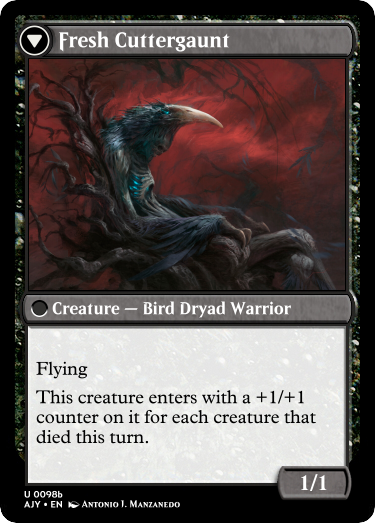
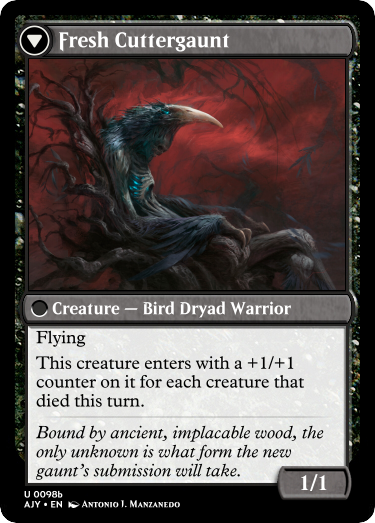
Automated update

Changed region(s): [[0.088, 0.6119, 0.8507, 0.9178]]

diff --git a/previews/AJY.html b/previews/AJY.html
@@ -262,12 +262,12 @@
 				<div class="container"><img loading="lazy" alt="sets\AJY-files\img\149.png" id="AJY_149" data-flag="@X" onclick="openSidebar('AJY_149',true)"></div>
 				<div class="container"><img loading="lazy" alt="sets\AJY-files\img\294.png" id="AJY_294" data-flag="@X" onclick="openSidebar('AJY_294',false)"></div>
 				<div class="container"><img loading="lazy" alt="sets\AJY-files\img\300.png" id="AJY_300" data-flag="@X" onclick="openSidebar('AJY_300',false)"></div>
-				<div class="container"><img loading="lazy" data-alt_src="sets\AJY-files\img\211_back.png" alt="sets\AJY-files\img\211_front.png" id="AJY_211" data-flag="@XD" onclick="openSidebar('AJY_211',true)"><button class="flip-btn" onclick="imgFlip('AJY_211')"></button></div>
+				<div class="container"><img loading="lazy" alt="sets\AJY-files\img\211.png" id="AJY_211" data-flag="@X" onclick="openSidebar('AJY_211',true)"></div>
 				<div class="container"><img loading="lazy" alt="sets\AJY-files\img\213.png" id="AJY_213" data-flag="@X" onclick="openSidebar('AJY_213',false)"></div>
 				<div class="container"><img loading="lazy" alt="sets\AJY-files\img\293.png" id="AJY_293" data-flag="@X" onclick="openSidebar('AJY_293',false)"></div>
 				<div class="container"><img loading="lazy" alt="sets\AJY-files\img\231.png" id="AJY_231" data-flag="@X" onclick="openSidebar('AJY_231',false)"></div>
 				<div class="container"><img loading="lazy" alt="sets\AJY-files\img\139.png" id="AJY_139" data-flag="@X" onclick="openSidebar('AJY_139',false)"></div>
-				<div class="container"><img loading="lazy" data-alt_src="sets\AJY-files\img\210_back.png" alt="sets\AJY-files\img\210_front.png" id="AJY_210" data-flag="@XD" onclick="openSidebar('AJY_210',false)"><button class="flip-btn" onclick="imgFlip('AJY_210')"></button></div>
+				<div class="container"><img loading="lazy" alt="sets\AJY-files\img\210.png" id="AJY_210" data-flag="@X" onclick="openSidebar('AJY_210',false)"></div>
 				<div class="container"><img loading="lazy" alt="sets\AJY-files\img\216.png" id="AJY_216" data-flag="@X" onclick="openSidebar('AJY_216',false)"></div>
 				<div class="container"><img loading="lazy" alt="sets\AJY-files\img\265.png" id="AJY_265" data-flag="@X" onclick="openSidebar('AJY_265',false)"></div>
 				<div class="container"><img loading="lazy" alt="sets\AJY-files\img\227.png" id="AJY_227" data-flag="@X" onclick="openSidebar('AJY_227',false)"></div>
@@ -289,7 +289,7 @@
 				<div class="container"><img loading="lazy" alt="sets\AJY-files\img\98.png" id="AJY_98" data-flag="@X" onclick="openSidebar('AJY_98',false)"></div>
 				<div class="container"><img loading="lazy" data-alt_src="sets\AJY-files\img\122_back.png" alt="sets\AJY-files\img\122_front.png" id="AJY_122" data-flag="@XD" onclick="openSidebar('AJY_122',false)"><button class="flip-btn" onclick="imgFlip('AJY_122')"></button></div>
 				<div class="container"><img loading="lazy" alt="sets\AJY-files\img\215.png" id="AJY_215" data-flag="@X" onclick="openSidebar('AJY_215',false)"></div>
-				<div class="container"><img loading="lazy" data-alt_src="sets\AJY-files\img\144_back.png" alt="sets\AJY-files\img\144_front.png" id="AJY_144" data-flag="@XD" onclick="openSidebar('AJY_144',false)"><button class="flip-btn" onclick="imgFlip('AJY_144')"></button></div>
+				<div class="container"><img loading="lazy" alt="sets\AJY-files\img\144.png" id="AJY_144" data-flag="@X" onclick="openSidebar('AJY_144',false)"></div>
 				<div class="container"><img loading="lazy" alt="sets\AJY-files\img\164.png" id="AJY_164" data-flag="@X" onclick="openSidebar('AJY_164',false)"></div>
 				<div class="container"><img loading="lazy" alt="sets\AJY-files\img\89.png" id="AJY_89" data-flag="@X" onclick="openSidebar('AJY_89',false)"></div>
 				<div class="container"><img loading="lazy" alt="sets\AJY-files\img\157.png" id="AJY_157" data-flag="@X" onclick="openSidebar('AJY_157',false)"></div>
@@ -303,14 +303,14 @@
 				<div class="container"><img loading="lazy" alt="sets\AJY-files\img\156.png" id="AJY_156" data-flag="@X" onclick="openSidebar('AJY_156',false)"></div>
 				<div class="container"><img loading="lazy" alt="sets\AJY-files\img\96.png" id="AJY_96" data-flag="@X" onclick="openSidebar('AJY_96',false)"></div>
 				<div class="container"><img loading="lazy" alt="sets\AJY-files\img\111.png" id="AJY_111" data-flag="@X" onclick="openSidebar('AJY_111',false)"></div>
-				<div class="container"><img loading="lazy" data-alt_src="sets\AJY-files\img\126_back.png" alt="sets\AJY-files\img\126_front.png" id="AJY_126" data-flag="@XD" onclick="openSidebar('AJY_126',false)"><button class="flip-btn" onclick="imgFlip('AJY_126')"></button></div>
+				<div class="container"><img loading="lazy" alt="sets\AJY-files\img\126.png" id="AJY_126" data-flag="@X" onclick="openSidebar('AJY_126',false)"></div>
 				<div class="container"><img loading="lazy" alt="sets\AJY-files\img\312.png" id="AJY_312" data-flag="@X" onclick="openSidebar('AJY_312',false)"></div>
 				<div class="container"><img loading="lazy" alt="sets\AJY-files\img\169.png" id="AJY_169" data-flag="@X" onclick="openSidebar('AJY_169',false)"></div>
 				<div class="container"><img loading="lazy" alt="sets\AJY-files\img\103.png" id="AJY_103" data-flag="@X" onclick="openSidebar('AJY_103',false)"></div>
 				<div class="container"><img loading="lazy" alt="sets\AJY-files\img\114.png" id="AJY_114" data-flag="@X" onclick="openSidebar('AJY_114',false)"></div>
 				<div class="container"><img loading="lazy" alt="sets\AJY-files\img\91.png" id="AJY_91" data-flag="@X" onclick="openSidebar('AJY_91',false)"></div>
-				<div class="container"><img loading="lazy" data-alt_src="sets\AJY-files\img\225_back.png" alt="sets\AJY-files\img\225_front.png" id="AJY_225" data-flag="@XD" onclick="openSidebar('AJY_225',false)"><button class="flip-btn" onclick="imgFlip('AJY_225')"></button></div>
-				<div class="container"><img loading="lazy" data-alt_src="sets\AJY-files\img\128_back.png" alt="sets\AJY-files\img\128_front.png" id="AJY_128" data-flag="@XD" onclick="openSidebar('AJY_128',false)"><button class="flip-btn" onclick="imgFlip('AJY_128')"></button></div>
+				<div class="container"><img loading="lazy" alt="sets\AJY-files\img\225.png" id="AJY_225" data-flag="@X" onclick="openSidebar('AJY_225',false)"></div>
+				<div class="container"><img loading="lazy" alt="sets\AJY-files\img\128.png" id="AJY_128" data-flag="@X" onclick="openSidebar('AJY_128',false)"></div>
 				<div class="container"><img loading="lazy" alt="sets\AJY-files\img\99.png" id="AJY_99" data-flag="@X" onclick="openSidebar('AJY_99',false)"></div>
 				<div class="container"><img loading="lazy" alt="sets\AJY-files\img\117.png" id="AJY_117" data-flag="@X" onclick="openSidebar('AJY_117',false)"></div>
 				<div class="container"><img loading="lazy" data-alt_src="sets\AJY-files\img\217_back.png" alt="sets\AJY-files\img\217_front.png" id="AJY_217" data-flag="@XD" onclick="openSidebar('AJY_217',false)"><button class="flip-btn" onclick="imgFlip('AJY_217')"></button></div>
@@ -325,7 +325,7 @@
 				<div class="container"><img loading="lazy" alt="sets\AJY-files\img\106.png" id="AJY_106" data-flag="@X" onclick="openSidebar('AJY_106',false)"></div>
 				<div class="container"><img loading="lazy" alt="sets\AJY-files\img\134.png" id="AJY_134" data-flag="@X" onclick="openSidebar('AJY_134',false)"></div>
 				<div class="container"><img loading="lazy" data-alt_src="sets\AJY-files\img\154_back.png" alt="sets\AJY-files\img\154_front.png" id="AJY_154" data-flag="@XD" onclick="openSidebar('AJY_154',false)"><button class="flip-btn" onclick="imgFlip('AJY_154')"></button></div>
-				<div class="container"><img loading="lazy" data-alt_src="sets\AJY-files\img\160_back.png" alt="sets\AJY-files\img\160_front.png" id="AJY_160" data-flag="@XD" onclick="openSidebar('AJY_160',false)"><button class="flip-btn" onclick="imgFlip('AJY_160')"></button></div>
+				<div class="container"><img loading="lazy" alt="sets\AJY-files\img\160.png" id="AJY_160" data-flag="@X" onclick="openSidebar('AJY_160',false)"></div>
 				<div class="container"><img loading="lazy" alt="sets\AJY-files\img\105.png" id="AJY_105" data-flag="@X" onclick="openSidebar('AJY_105',false)"></div>
 				<div class="container"><img loading="lazy" alt="sets\AJY-files\img\23.png" id="AJY_23" data-flag="@X" onclick="openSidebar('AJY_23',false)"></div>
 				<div class="container"><img loading="lazy" alt="sets\AJY-files\img\125.png" id="AJY_125" data-flag="@X" onclick="openSidebar('AJY_125',false)"></div>
@@ -389,7 +389,7 @@
 				<div class="container"><img loading="lazy" alt="sets\AJY-files\img\8.png" id="AJY_8" data-flag="@X" onclick="openSidebar('AJY_8',false)"></div>
 				<div class="container"><img loading="lazy" alt="sets\AJY-files\img\17.png" id="AJY_17" data-flag="@X" onclick="openSidebar('AJY_17',false)"></div>
 				<div class="container"><img loading="lazy" alt="sets\AJY-files\img\34.png" id="AJY_34" data-flag="@X" onclick="openSidebar('AJY_34',false)"></div>
-				<div class="container"><img loading="lazy" data-alt_src="sets\AJY-files\img\39_back.png" alt="sets\AJY-files\img\39_front.png" id="AJY_39" data-flag="@XD" onclick="openSidebar('AJY_39',false)"><button class="flip-btn" onclick="imgFlip('AJY_39')"></button></div>
+				<div class="container"><img loading="lazy" alt="sets\AJY-files\img\39.png" id="AJY_39" data-flag="@X" onclick="openSidebar('AJY_39',false)"></div>
 				<div class="container"><img loading="lazy" alt="sets\AJY-files\img\61.png" id="AJY_61" data-flag="@X" onclick="openSidebar('AJY_61',false)"></div>
 				<div class="container"><img loading="lazy" data-alt_src="sets\AJY-files\img\9_back.png" alt="sets\AJY-files\img\9_front.png" id="AJY_9" data-flag="@XD" onclick="openSidebar('AJY_9',false)"><button class="flip-btn" onclick="imgFlip('AJY_9')"></button></div>
 				<div class="container"><img loading="lazy" alt="sets\AJY-files\img\13.png" id="AJY_13" data-flag="@X" onclick="openSidebar('AJY_13',false)"></div>
@@ -409,7 +409,7 @@
 				<div class="container"><img loading="lazy" alt="sets\AJY-files\img\4.png" id="AJY_4" data-flag="@X" onclick="openSidebar('AJY_4',false)"></div>
 				<div class="container"><img loading="lazy" alt="sets\AJY-files\img\14.png" id="AJY_14" data-flag="@X" onclick="openSidebar('AJY_14',false)"></div>
 				<div class="container"><img loading="lazy" data-alt_src="sets\AJY-files\img\38_back.png" alt="sets\AJY-files\img\38_front.png" id="AJY_38" data-flag="@XD" onclick="openSidebar('AJY_38',false)"><button class="flip-btn" onclick="imgFlip('AJY_38')"></button></div>
-				<div class="container"><img loading="lazy" data-alt_src="sets\AJY-files\img\50_back.png" alt="sets\AJY-files\img\50_front.png" id="AJY_50" data-flag="@XD" onclick="openSidebar('AJY_50',false)"><button class="flip-btn" onclick="imgFlip('AJY_50')"></button></div>
+				<div class="container"><img loading="lazy" alt="sets\AJY-files\img\50.png" id="AJY_50" data-flag="@X" onclick="openSidebar('AJY_50',false)"></div>
 				<div class="container"><img loading="lazy" alt="sets\AJY-files\img\59.png" id="AJY_59" data-flag="@X" onclick="openSidebar('AJY_59',false)"></div>
 				<div class="container"><img loading="lazy" alt="sets\AJY-files\img\0.png" id="AJY_0" data-flag="@X" onclick="openSidebar('AJY_0',false)"></div>
 				<div class="container"><img loading="lazy" alt="sets\AJY-files\img\25.png" id="AJY_25" data-flag="@X" onclick="openSidebar('AJY_25',false)"></div>
@@ -417,7 +417,7 @@
 				<div class="container"><img loading="lazy" alt="sets\AJY-files\img\47.png" id="AJY_47" data-flag="@X" onclick="openSidebar('AJY_47',false)"></div>
 				<div class="container"><img loading="lazy" data-alt_src="sets\AJY-files\img\315_back.png" alt="sets\AJY-files\img\315_front.png" id="AJY_315" data-flag="@XD" onclick="openSidebar('AJY_315',false)"><button class="flip-btn" onclick="imgFlip('AJY_315')"></button></div>
 				<div class="container"><img loading="lazy" alt="sets\AJY-files\img\3.png" id="AJY_3" data-flag="@X" onclick="openSidebar('AJY_3',false)"></div>
-				<div class="container"><img loading="lazy" data-alt_src="sets\AJY-files\img\22_back.png" alt="sets\AJY-files\img\22_front.png" id="AJY_22" data-flag="@XD" onclick="openSidebar('AJY_22',false)"><button class="flip-btn" onclick="imgFlip('AJY_22')"></button></div>
+				<div class="container"><img loading="lazy" alt="sets\AJY-files\img\22.png" id="AJY_22" data-flag="@X" onclick="openSidebar('AJY_22',false)"></div>
 				<div class="container"><img loading="lazy" alt="sets\AJY-files\img\36.png" id="AJY_36" data-flag="@X" onclick="openSidebar('AJY_36',false)"></div>
 				<div class="container"><img loading="lazy" alt="sets\AJY-files\img\42.png" id="AJY_42" data-flag="@X" onclick="openSidebar('AJY_42',false)"></div>
 				<div class="container"><img loading="lazy" alt="sets\AJY-files\img\58.png" id="AJY_58" data-flag="@X" onclick="openSidebar('AJY_58',false)"></div>
@@ -431,7 +431,7 @@
 				<div class="container"><img loading="lazy" alt="sets\AJY-files\img\28.png" id="AJY_28" data-flag="@X" onclick="openSidebar('AJY_28',false)"></div>
 				<div class="container"><img loading="lazy" alt="sets\AJY-files\img\46.png" id="AJY_46" data-flag="@X" onclick="openSidebar('AJY_46',false)"></div>
 				<div class="container"><img loading="lazy" alt="sets\AJY-files\img\277.png" id="AJY_277" data-flag="@X" onclick="openSidebar('AJY_277',false)"></div>
-				<div class="container"><img loading="lazy" data-alt_src="sets\AJY-files\img\10_back.png" alt="sets\AJY-files\img\10_front.png" id="AJY_10" data-flag="@XD" onclick="openSidebar('AJY_10',false)"><button class="flip-btn" onclick="imgFlip('AJY_10')"></button></div>
+				<div class="container"><img loading="lazy" alt="sets\AJY-files\img\10.png" id="AJY_10" data-flag="@X" onclick="openSidebar('AJY_10',false)"></div>
 				<div class="container"><img loading="lazy" alt="sets\AJY-files\img\18.png" id="AJY_18" data-flag="@X" onclick="openSidebar('AJY_18',false)"></div>
 				<div class="container"><img loading="lazy" alt="sets\AJY-files\img\26.png" id="AJY_26" data-flag="@X" onclick="openSidebar('AJY_26',false)"></div>
 				<div class="container"><img loading="lazy" data-alt_src="sets\AJY-files\img\49_back.png" alt="sets\AJY-files\img\49_front.png" id="AJY_49" data-flag="@XD" onclick="openSidebar('AJY_49',false)"><button class="flip-btn" onclick="imgFlip('AJY_49')"></button></div>
@@ -452,13 +452,13 @@
 				<div class="container"><img loading="lazy" alt="sets\AJY-files\img\243.png" id="AJY_243" data-flag="@X" onclick="openSidebar('AJY_243',false)"></div>
 				<div class="container"><img loading="lazy" alt="sets\AJY-files\img\178.png" id="AJY_178" data-flag="@X" onclick="openSidebar('AJY_178',false)"></div>
 				<div class="container"><img loading="lazy" alt="sets\AJY-files\img\205.png" id="AJY_205" data-flag="@X" onclick="openSidebar('AJY_205',false)"></div>
-				<div class="container"><img loading="lazy" data-alt_src="sets\AJY-files\img\174_back.png" alt="sets\AJY-files\img\174_front.png" id="AJY_174" data-flag="@XD" onclick="openSidebar('AJY_174',false)"><button class="flip-btn" onclick="imgFlip('AJY_174')"></button></div>
+				<div class="container"><img loading="lazy" alt="sets\AJY-files\img\174.png" id="AJY_174" data-flag="@X" onclick="openSidebar('AJY_174',false)"></div>
 				<div class="container"><img loading="lazy" alt="sets\AJY-files\img\176.png" id="AJY_176" data-flag="@X" onclick="openSidebar('AJY_176',false)"></div>
 				<div class="container"><img loading="lazy" alt="sets\AJY-files\img\182.png" id="AJY_182" data-flag="@X" onclick="openSidebar('AJY_182',false)"></div>
 				<div class="container"><img loading="lazy" data-alt_src="sets\AJY-files\img\183_back.png" alt="sets\AJY-files\img\183_front.png" id="AJY_183" data-flag="@XD" onclick="openSidebar('AJY_183',false)"><button class="flip-btn" onclick="imgFlip('AJY_183')"></button></div>
 				<div class="container"><img loading="lazy" alt="sets\AJY-files\img\181.png" id="AJY_181" data-flag="@X" onclick="openSidebar('AJY_181',false)"></div>
 				<div class="container"><img loading="lazy" alt="sets\AJY-files\img\192.png" id="AJY_192" data-flag="@X" onclick="openSidebar('AJY_192',false)"></div>
-				<div class="container"><img loading="lazy" data-alt_src="sets\AJY-files\img\189_back.png" alt="sets\AJY-files\img\189_front.png" id="AJY_189" data-flag="@XD" onclick="openSidebar('AJY_189',false)"><button class="flip-btn" onclick="imgFlip('AJY_189')"></button></div>
+				<div class="container"><img loading="lazy" alt="sets\AJY-files\img\189.png" id="AJY_189" data-flag="@X" onclick="openSidebar('AJY_189',false)"></div>
 				<div class="container"><img loading="lazy" alt="sets\AJY-files\img\187.png" id="AJY_187" data-flag="@X" onclick="openSidebar('AJY_187',false)"></div>
 				<div class="container"><img loading="lazy" alt="sets\AJY-files\img\70.png" id="AJY_70" data-flag="@X" onclick="openSidebar('AJY_70',false)"></div>
 				<div class="container"><img loading="lazy" alt="sets\AJY-files\img\188.png" id="AJY_188" data-flag="@X" onclick="openSidebar('AJY_188',false)"></div>
@@ -482,7 +482,7 @@
 				<div class="container"><img loading="lazy" alt="sets\AJY-files\img\236.png" id="AJY_236" data-flag="@X" onclick="openSidebar('AJY_236',false)"></div>
 				<div class="container"><img loading="lazy" alt="sets\AJY-files\img\248.png" id="AJY_248" data-flag="@X" onclick="openSidebar('AJY_248',false)"></div>
 				<div class="container"><img loading="lazy" alt="sets\AJY-files\img\191.png" id="AJY_191" data-flag="@X" onclick="openSidebar('AJY_191',false)"></div>
-				<div class="container"><img loading="lazy" data-alt_src="sets\AJY-files\img\313_back.png" alt="sets\AJY-files\img\313_front.png" id="AJY_313" data-flag="@XD" onclick="openSidebar('AJY_313',false)"><button class="flip-btn" onclick="imgFlip('AJY_313')"></button></div>
+				<div class="container"><img loading="lazy" alt="sets\AJY-files\img\313.png" id="AJY_313" data-flag="@X" onclick="openSidebar('AJY_313',false)"></div>
 				<div class="container"><img loading="lazy" alt="sets\AJY-files\img\242.png" id="AJY_242" data-flag="@X" onclick="openSidebar('AJY_242',false)"></div>
 				<div class="container"><img loading="lazy" alt="sets\AJY-files\img\175.png" id="AJY_175" data-flag="@X" onclick="openSidebar('AJY_175',false)"></div>
 				<div class="container"><img loading="lazy" alt="sets\AJY-files\img\237.png" id="AJY_237" data-flag="@X" onclick="openSidebar('AJY_237',false)"></div>